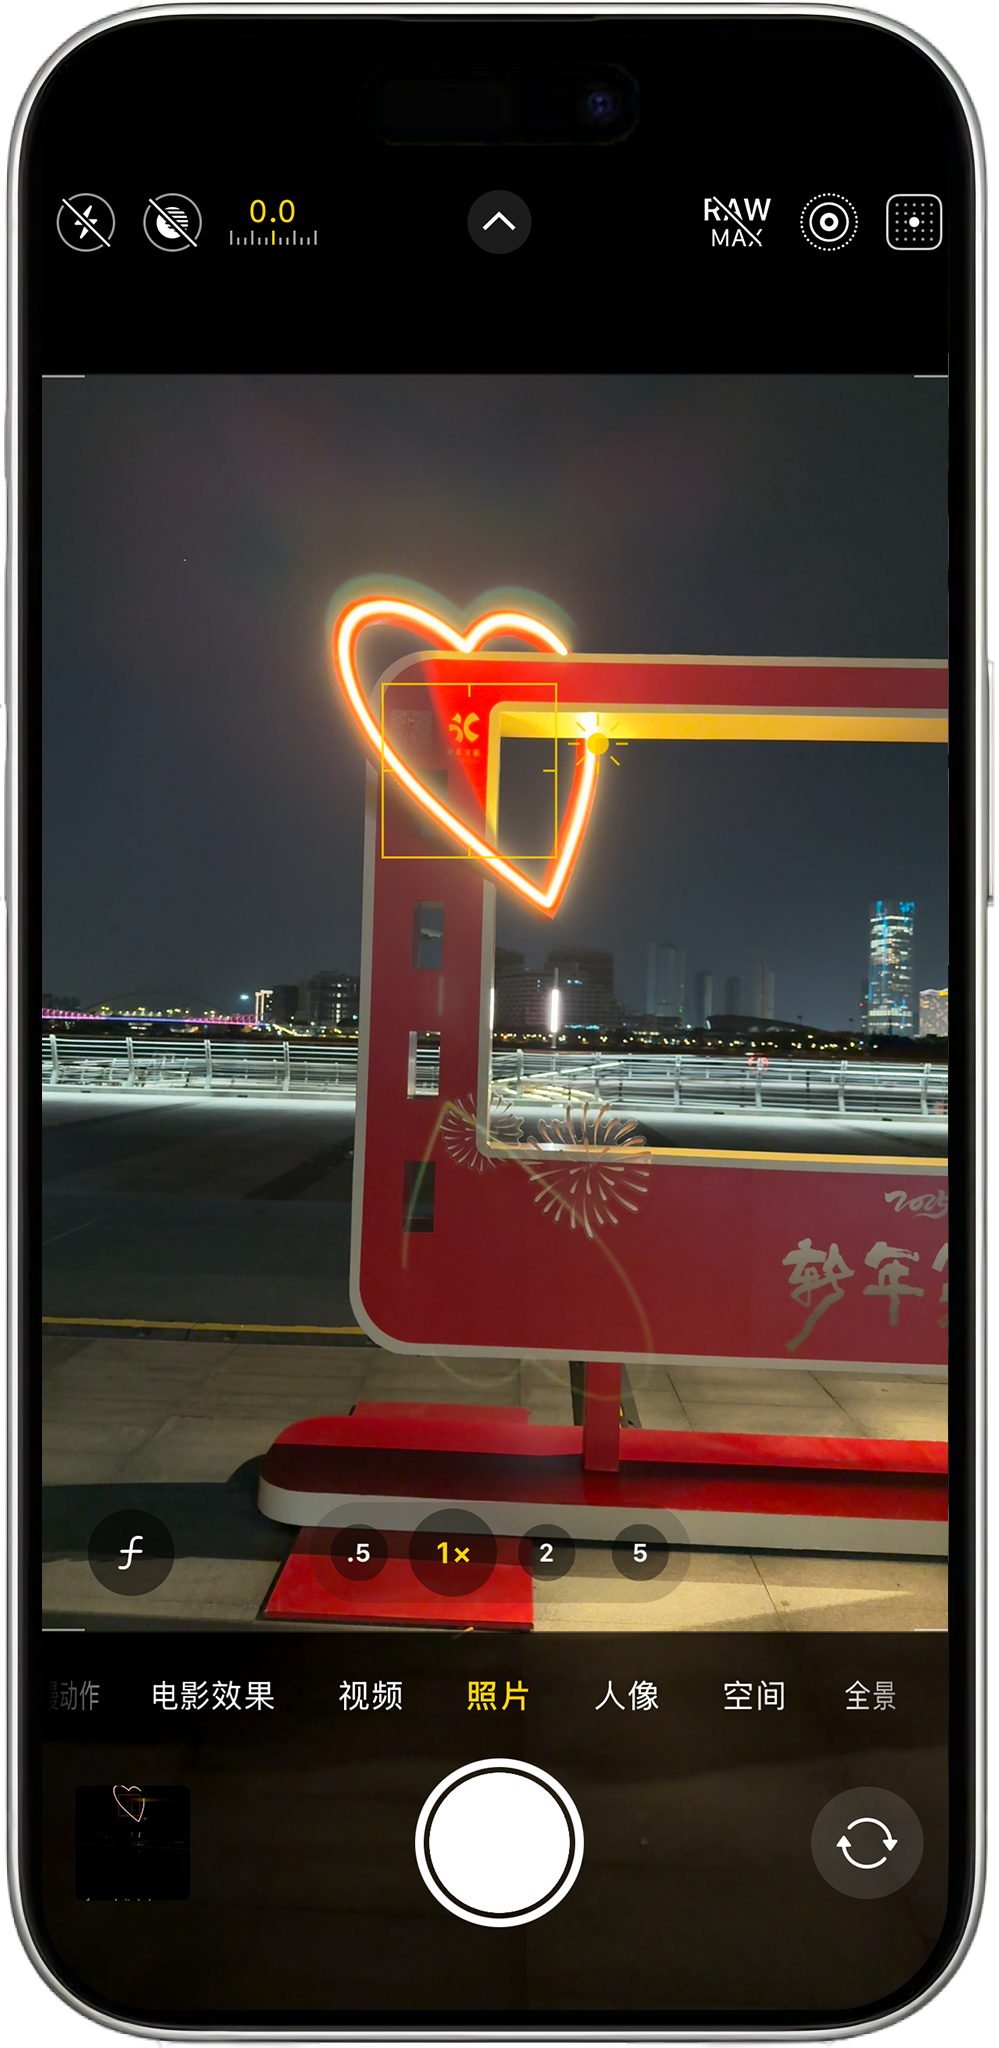
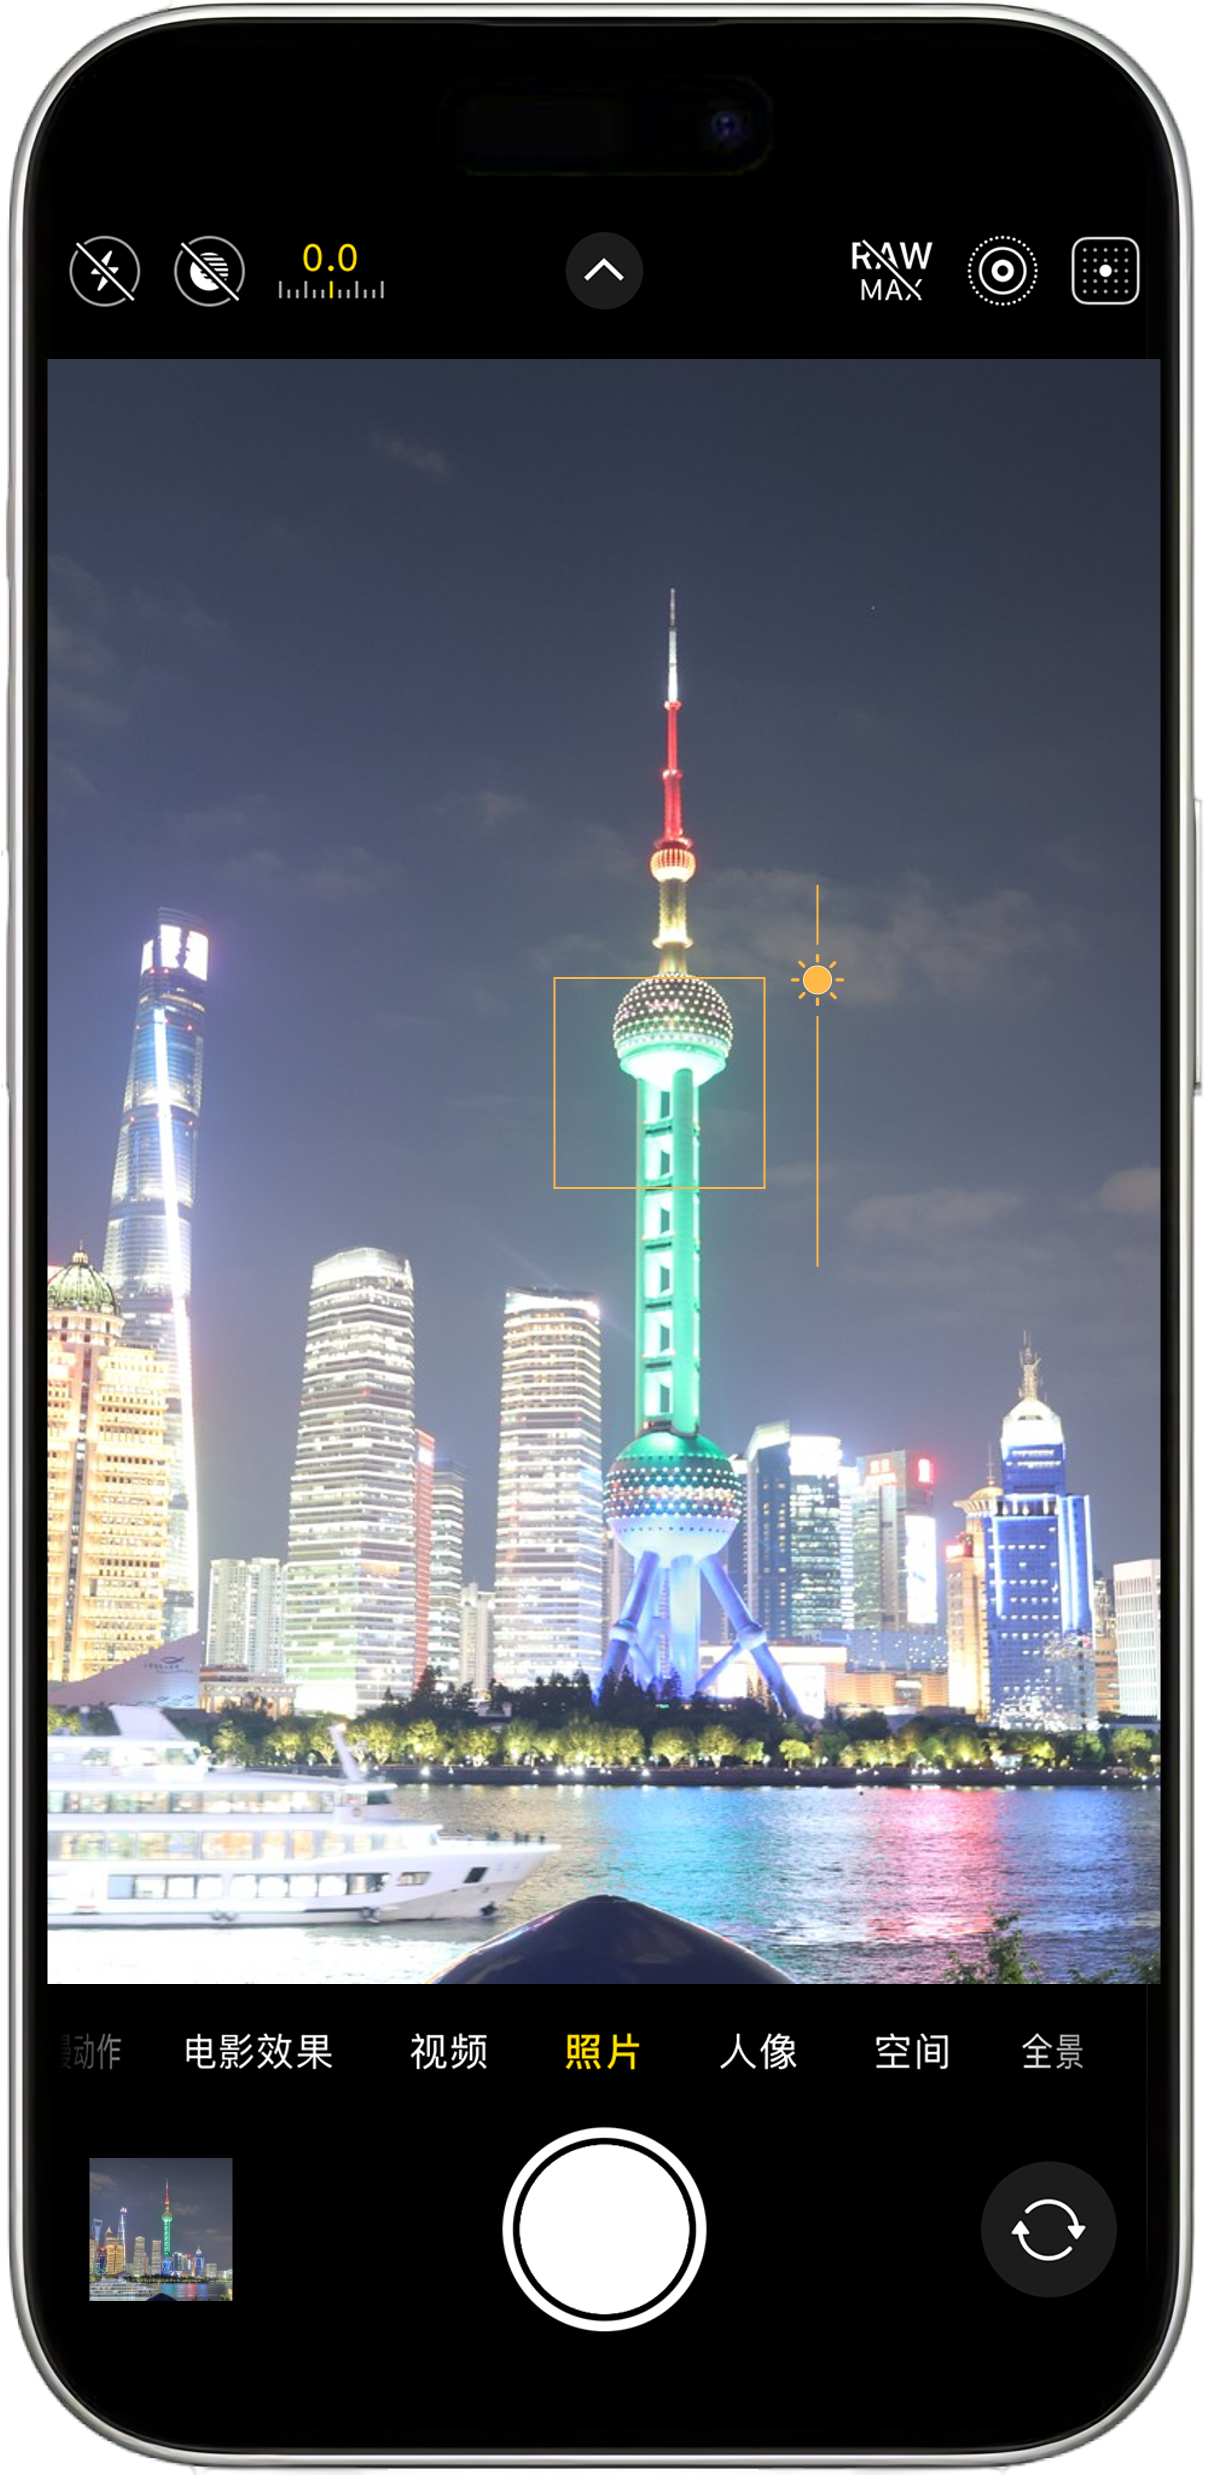
update tutorial images

diff --git a/app.py b/app.py
@@ -134,17 +134,17 @@ def build_demo():
 
     with gr.Blocks(css=css) as demo:
         with gr.Column(elem_id="col-container"):
-            gr.Markdown("""<h1 style="text-align: center; font-size: 32px;"><b>UltraFusion📸✨</b></h1>""")
-            gr.Markdown("""<h1 style="text-align: center; font-size: 24px;"><b>如何拍摄长短曝光的图片呢？</b></h1>""")
+            gr.Markdown("""<h1 style="text-align: center; font-size: 32px;"><b>浦像•超级HDR📸✨</b></h1>""")
+            gr.Markdown("""<h1 style="text-align: center; font-size: 24px;"><b>该如何使用它呢？</b></h1>""")
             with gr.Row():
-                gr.Image("ui/ch-short.png", width=IMG_W*2//3, show_label=False, interactive=False, show_download_button=False) #, height=IMG_H*2
-                gr.Image("ui/ch-tap.png", width=IMG_W*2//3, show_label=False, interactive=False, show_download_button=False)
-                gr.Image("ui/ch-long.png", width=IMG_W*2//3, show_label=False, interactive=False, show_download_button=False)
+                gr.Image("ui/ch-short.png", width=IMG_W//3, show_label=False, interactive=False, show_download_button=False)
+                gr.Image("ui/ch-long.png", width=IMG_W//3, show_label=False, interactive=False, show_download_button=False)
+                gr.Image("ui/ch-run.png", width=IMG_W//3, show_label=False, interactive=False, show_download_button=False)
             
             with gr.Row():
-                gr.Markdown("""<h1 style="text-align: center; font-size: 12px;"><b>➁ 向下拖动☀图标拍摄短曝光的图。</b></h1>""")
-                gr.Markdown("""<h1 style="text-align: center; font-size: 12px;"><b>➀ 点击屏幕出现调节曝光的图标☀。</b></h1>""")
-                gr.Markdown("""<h1 style="text-align: center; font-size: 12px;"><b>➂ 向上拖动☀图标拍摄长曝光的图。</b></h1>""")
+                gr.Markdown("""<h1 style="text-align: center; font-size: 12px;"><b>➀ 点击拍照界面，向下拖动☀图标，拍摄短曝光照片。</b></h1>""")
+                gr.Markdown("""<h1 style="text-align: center; font-size: 12px;"><b>➁ 点击拍照界面，向上拖动☀图标，拍摄长曝光照片。</b></h1>""")
+                gr.Markdown("""<h1 style="text-align: center; font-size: 12px;"><b>➂ 上传拍摄的短曝光和长曝光照片，随后点击“运行”按钮，获取处理后的结果。</b></h1>""")
 
             gr.Markdown("""<h1 style="text-align: center; font-size: 24px;"><b>开始体验它吧!</b></h1>""")
             with gr.Row():
